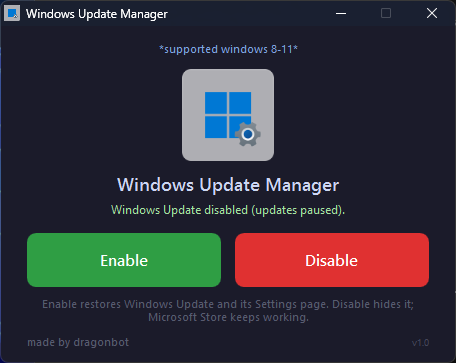
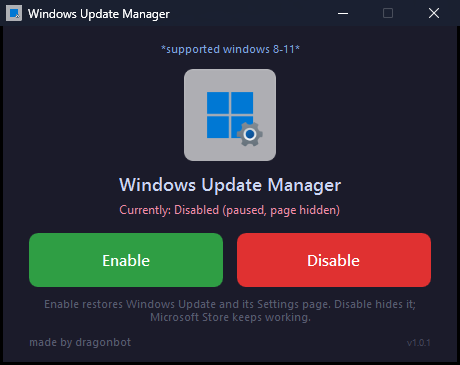
Add 32-bit build and release 1.0.1
- Build x64 and x86 executables from the same source; explicit hyphenated names
- Verify each output's PE machine type at build time (0x8664 / 0x014C)
- Refuse to run the 32-bit build on 64-bit Windows (WOW64 redirection), auto-launch x64 sibling
- Stamp the version into the GUI footer at build time
- CI publishes both binaries plus one combined SHA256SUMS.txt
- Update README, CHANGELOG, SECURITY and docs for the new architecture support

diff --git a/README.md b/README.md
@@ -7,7 +7,7 @@ No Group Policy Editor required, no services disabled, no third-party drivers.
 
 [![License: MIT](https://img.shields.io/badge/license-MIT-blue.svg)](LICENSE)
 [![Platform](https://img.shields.io/badge/platform-Windows%208%20%7C%2010%20%7C%2011-0078D4.svg)](#requirements)
-[![Version](https://img.shields.io/badge/version-1.0.0-brightgreen.svg)](CHANGELOG.md)
+[![Version](https://img.shields.io/badge/version-1.0.1-brightgreen.svg)](CHANGELOG.md)
 
 ![Windows Update Manager screenshot](docs/screenshot.png)
 
@@ -36,18 +36,31 @@ Result: Windows Update stops, the Microsoft Store keeps working.
   `%ProgramData%\WindowsUpdateManager\backup-<timestamp>\` before every change.
 - **Works without `gpedit.msc`**, so Windows Home editions are supported.
 - **Single `.exe`.** Logo, logic and icon are all embedded — no side files, no installer.
+- **32-bit and 64-bit builds.** One file each, named so you can't grab the wrong one.
 
 ## Download
 
-Grab `Windows-Update-Manager.exe` from the [Releases](../../releases) page.
+Grab the file that matches your Windows from the [Releases](../../releases) page:
 
-> The executable is **not code-signed**, so Windows SmartScreen may warn you the first time.
+| Your Windows | File |
+| --- | --- |
+| **64-bit** — Windows 8 / 8.1 / 10 / 11 x64 (almost everyone) | `Windows-Update-Manager-x64.exe` |
+| **32-bit** — Windows 8 / 8.1 / 10 x86 | `Windows-Update-Manager-x86.exe` |
+
+Not sure which one? Press <kbd>Win</kbd>+<kbd>Pause</kbd> (or Settings → System → About) and look at
+**System type**. If it says *64-bit operating system*, use the x64 file.
+
+> The 32-bit build is **only** for 32-bit Windows. On 64-bit Windows it shows a warning and exits
+> instead of silently writing to the wrong registry view — use the x64 build there.
+>
+> The executables are **not code-signed**, so Windows SmartScreen may warn you the first time.
 > Click *More info → Run anyway*, or [build it yourself](#build-from-source) — the whole build
-> takes about 30 seconds.
+> takes about a minute.
 
 ## Usage
 
-1. Run `Windows Update Manager.exe` and approve the UAC prompt.
+1. Run `Windows-Update-Manager-x64.exe` (or the x86 file on 32-bit Windows) and approve the UAC
+   prompt.
 2. The status line shows the current state: `Currently: Enabled` or
    `Currently: Disabled (paused, page hidden)`.
 3. Click **Disable** → confirm → Windows Update is paused, blocked by policy, and its Settings page
@@ -92,7 +105,8 @@ See [docs/how-it-works.md](docs/how-it-works.md) for the full technical write-up
 
 - Windows 8 / 8.1 / 10 / 11 — Home, Pro, Enterprise or Education
 - Administrator rights (the app requests them automatically)
-- 64-bit Windows (the released build is x64)
+- 64-bit Windows for `Windows-Update-Manager-x64.exe`; 32-bit Windows for
+  `Windows-Update-Manager-x86.exe`
 - PowerShell 5.1 if you run the source instead of the `.exe`
 
 ## Build from source
@@ -103,16 +117,21 @@ cd windows-update-manager
 
 Install-Module ps2exe -Scope CurrentUser -Force
 
-# Produces dist\Windows Update Manager.exe
+# Produces dist\Windows-Update-Manager-x64.exe and dist\Windows-Update-Manager-x86.exe
 .\src\Build-Exe.ps1
 ```
 
 Useful switches:
 
 ```powershell
+.\src\Build-Exe.ps1 -Architecture x64          # only the 64-bit build
+.\src\Build-Exe.ps1 -Architecture x86          # only the 32-bit build
 .\src\Build-Exe.ps1 -Version 1.0.1.0
-.\src\Build-Exe.ps1 -OutputPath "$env:TEMP\WUM.exe"
+.\src\Build-Exe.ps1 -Architecture x64 -OutputPath "$env:TEMP\WUM.exe"
 ```
+
+The build verifies the PE header of every output (`0x8664` for x64, `0x014C` for x86), so a
+mis-labelled binary fails the build instead of shipping.
 
 **Run without compiling:**
 
@@ -123,6 +142,9 @@ Useful switches:
 # or directly
 powershell -NoProfile -ExecutionPolicy Bypass -STA -File .\src\WindowsUpdateManager.ps1
 ```
+
+On 64-bit Windows, run the source from **64-bit PowerShell**. A 32-bit session is redirected to
+`WOW6432Node` / `SysWOW64`, so the scripts refuse to run there rather than write to the wrong place.
 
 **Standalone scripts** (console, no GUI):
 
@@ -140,7 +162,7 @@ powershell -NoProfile -ExecutionPolicy Bypass -STA -File .\src\WindowsUpdateMana
 .\src\Test-WuManager.ps1
 ```
 
-The log is written to `%TEMP%\wu-manager-test.log`. The v1.0.0 release passes **110 / 110** checks.
+The log is written to `%TEMP%\wu-manager-test.log`. The v1.0.1 release passes **111 / 111** checks.
 
 ## Project layout
 
@@ -149,14 +171,14 @@ windows-update-manager/
 ├─ src/
 │  ├─ WuCore.ps1                  # all enable/disable logic (shared by GUI + tests)
 │  ├─ WindowsUpdateManager.ps1    # WPF GUI
-│  ├─ Build-Exe.ps1               # single-file .exe build
+│  ├─ Build-Exe.ps1               # x64 + x86 single-file .exe build
 │  ├─ Disable-WindowsUpdate.ps1   # standalone console version
 │  ├─ Enable-WindowsUpdate.ps1    # standalone console version
 │  ├─ Test-WuManager.ps1          # self-test harness
 │  └─ Windows Update Manager.vbs  # windowless launcher
 ├─ assets/                        # logo source, PNG and generated ICO
 ├─ docs/                          # how-it-works, troubleshooting, screenshot
-└─ .github/workflows/build.yml    # CI: build + attach exe to tagged releases
+└─ .github/workflows/build.yml    # CI: build both architectures + attach to tagged releases
 ```
 
 ## Uninstall

diff --git a/docs/how-it-works.md b/docs/how-it-works.md
@@ -15,6 +15,49 @@ Enable. Everything lives in [`src/WuCore.ps1`](../src/WuCore.ps1); the GUI is on
 4. **Must be reversible.** The first Disable records the original values; Enable restores them
    byte-for-byte.
 
+## 32-bit and 64-bit builds
+
+The release ships two executables built from the same source:
+
+| File | PE machine | Runs on |
+| --- | --- | --- |
+| `Windows-Update-Manager-x64.exe` | `0x8664` (AMD64) | 64-bit Windows |
+| `Windows-Update-Manager-x86.exe` | `0x014C` (i386) | 32-bit Windows |
+
+Both are real single-file builds; neither is a wrapper around the other.
+
+### Why the 32-bit build refuses to run on 64-bit Windows
+
+Everything this tool writes lives in two places that WOW64 redirects:
+
+- `HKLM\SOFTWARE\Policies\Microsoft\Windows\WindowsUpdate` — a 32-bit process writing to
+  `HKLM\SOFTWARE` is silently redirected to `HKLM\SOFTWARE\WOW6432Node\...`.
+- `%SystemRoot%\System32\GroupPolicy\Machine\Registry.pol` — a 32-bit process asking for
+  `System32` is redirected to `%SystemRoot%\SysWOW64\...`.
+
+Windows reads the Windows Update policies from the **64-bit** view and the **native** `System32`.
+So a 32-bit process on 64-bit Windows would report success while changing keys that Windows never
+looks at. That is worse than failing, so the app checks first:
+
+```powershell
+function Test-WuArchitectureSupported {
+    return ((-not [Environment]::Is64BitOperatingSystem) -or [Environment]::Is64BitProcess)
+}
+```
+
+- 64-bit Windows + 64-bit process → supported.
+- 32-bit Windows (any process) → supported.
+- 64-bit Windows + 32-bit process → **not** supported.
+
+In the GUI, an unsupported combination looks for `Windows-Update-Manager-x64.exe` (or the old
+`Windows Update Manager.exe`) in the same folder and launches it. If it is not there, the app shows
+a warning and exits with code 1. The two console scripts perform the same check and refuse with a
+message. No registry value or policy file is touched before the check runs.
+
+The build itself is guarded too: `Build-Exe.ps1` reads the PE header of every output and throws if
+the machine type does not match the requested architecture, so an x64 binary can never be published
+under the x86 name.
+
 ## Disable — step by step
 
 ### 1. Pause updates

diff --git a/CHANGELOG.md b/CHANGELOG.md
@@ -3,6 +3,31 @@
 All notable changes to this project are documented here.
 This project follows [Semantic Versioning](https://semver.org/).
 
+## [1.0.1] — 2026-11-10
+
+32-bit support.
+
+### Added
+
+- **32-bit build:** `Windows-Update-Manager-x86.exe`, built from the same source as the x64 build.
+  Each release now ships `Windows-Update-Manager-x64.exe` and `Windows-Update-Manager-x86.exe`,
+  with explicit names so the wrong file is not downloaded by accident.
+- `Build-Exe.ps1 -Architecture x64|x86|Both` (default `Both`). Every build is checked against its
+  expected PE machine type (`0x8664` / `0x014C`) and fails if they do not match.
+- Architecture guard (`Test-WuArchitectureSupported`): on 64-bit Windows the 32-bit build shows a
+  clear warning and exits, because a 32-bit process is redirected to `WOW6432Node` / `SysWOW64`
+  where Windows never reads these policies. If `Windows-Update-Manager-x64.exe` sits next to it,
+  the 32-bit build launches that instead.
+- The same guard in `Disable-WindowsUpdate.ps1` and `Enable-WindowsUpdate.ps1`.
+- The version is now stamped into the executable at build time, and the footer reads it from that
+  value instead of a hard-coded string.
+
+### Changed
+
+- Release assets now include both architectures and a single `SHA256SUMS.txt` covering both.
+- GUI footer and the release version are `v1.0.1`.
+- README download section is a per-architecture table.
+
 ## [1.0.0] — 2026-11-10
 
 First public release.
@@ -33,4 +58,5 @@ First public release.
 - Windows Update still appears as a "Last checked" card on the Settings **Home** page; the page
   itself and the sidebar entry are hidden.
 
+[1.0.1]: https://github.com/Dragonbot-12012/windows-update-manager/releases/tag/v1.0.1
 [1.0.0]: https://github.com/Dragonbot-12012/windows-update-manager/releases/tag/v1.0.0

diff --git a/docs/troubleshooting.md b/docs/troubleshooting.md
@@ -10,11 +10,19 @@ antivirus did not quarantine it — unsigned binaries are sometimes blocked.
 Click **More info → Run anyway**, or build it yourself (`.\src\Build-Exe.ps1`).
 
 **"This app can't run on your PC."**
-The release build is x64. On 32-bit Windows, run the source instead:
+You downloaded the wrong architecture. Use `Windows-Update-Manager-x64.exe` on 64-bit Windows and
+`Windows-Update-Manager-x86.exe` on 32-bit Windows. Check **Settings → System → About → System type**
+if you are unsure.
 
-```powershell
-powershell -NoProfile -ExecutionPolicy Bypass -STA -File .\src\WindowsUpdateManager.ps1
-```
+**The 32-bit exe says "This is the 32-bit build, but Windows is 64-bit."**
+That is intentional. A 32-bit process on 64-bit Windows is redirected to `WOW6432Node` and
+`SysWOW64`, where Windows does not read these policies, so the 32-bit build refuses to run instead
+of pretending to work. Use `Windows-Update-Manager-x64.exe`. If both files are in the same folder,
+the 32-bit build starts the x64 one for you.
+
+**Script mode: "This is a 32-bit PowerShell session on 64-bit Windows."**
+Run the script from 64-bit PowerShell (`%SystemRoot%\System32\WindowsPowerShell\v1.0\powershell.exe`),
+not the SysWOW64 one.
 
 **Script mode: "running scripts is disabled on this system".**
 Use the provided launcher or bypass the policy for that one process:

diff --git a/SECURITY.md b/SECURITY.md
@@ -43,11 +43,15 @@ Because of that, the recommended path is to **build it yourself** from source:
 ```
 
 If you download a binary, verify its SHA-256 against the `SHA256SUMS.txt` published with the
-release:
+release. The file lists both architectures, so check the one you downloaded:
 
 ```powershell
-Get-FileHash '.\Windows-Update-Manager.exe' -Algorithm SHA256
+Get-FileHash '.\Windows-Update-Manager-x64.exe' -Algorithm SHA256   # 64-bit Windows
+Get-FileHash '.\Windows-Update-Manager-x86.exe' -Algorithm SHA256   # 32-bit Windows
 ```
+
+Compare the result with the matching line in `SHA256SUMS.txt`. A mismatch means the file is not the
+one that was built and published — do not run it.
 
 ### What this software never does
 
